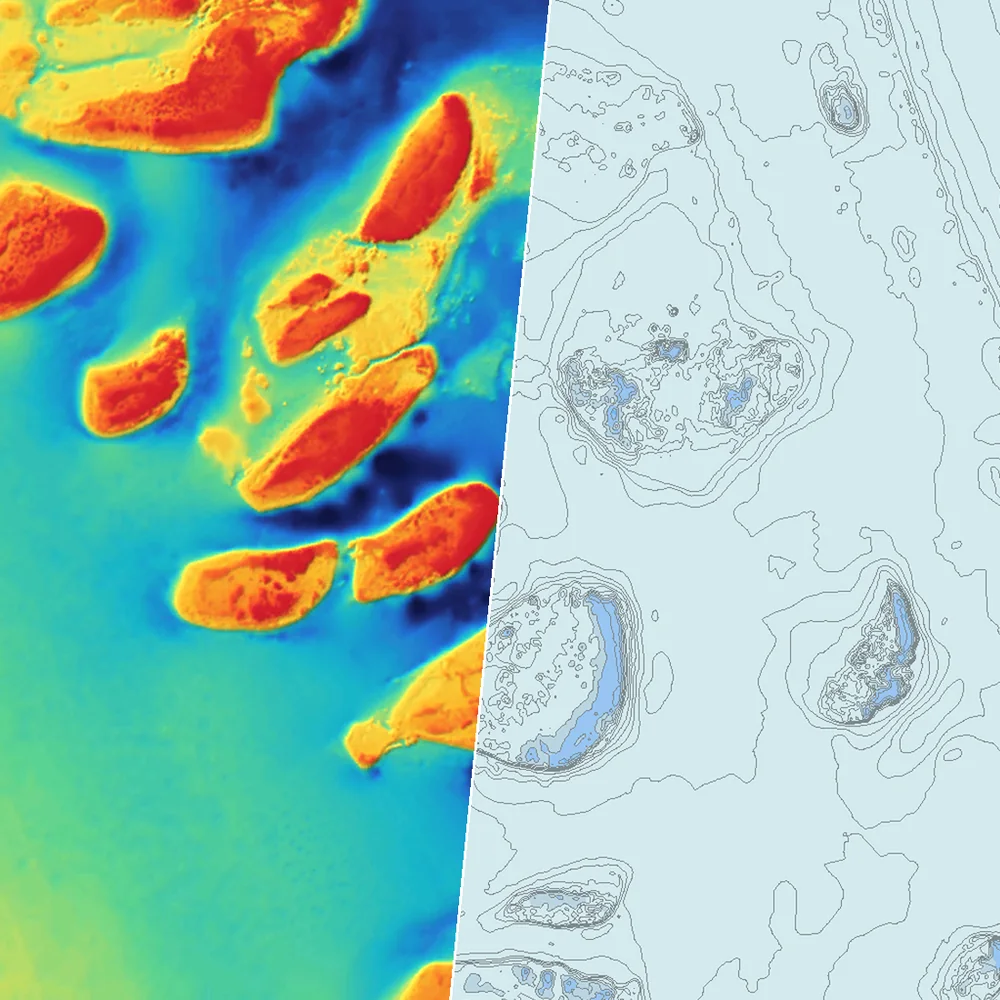
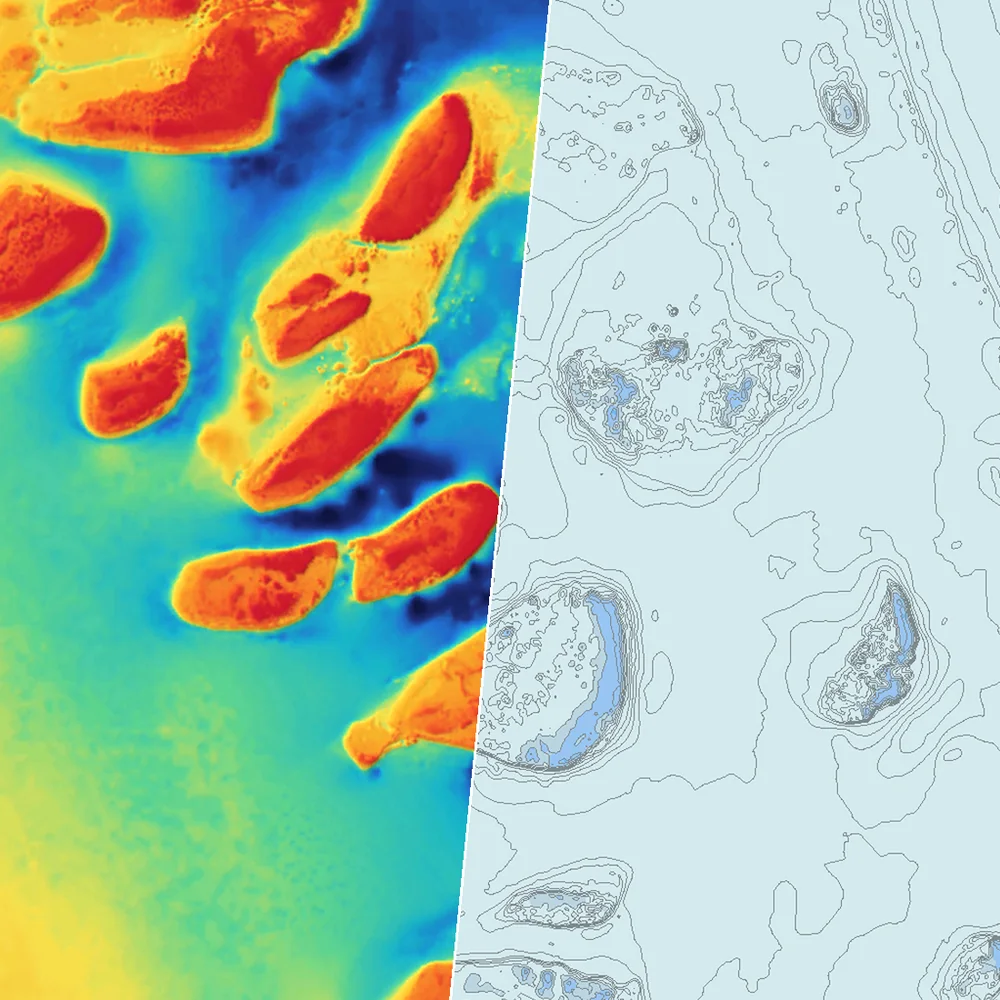
Say the apps work anywhere; BathyPicker's free data is Australian waters. AT5 pictures from 1.4

diff --git a/index.html b/index.html
@@ -3,9 +3,9 @@
 <head>
   <meta charset="utf-8">
   <meta name="viewport" content="width=device-width, initial-scale=1">
-  <title>SeaBathy: free 3D seabed maps for Australian waters</title>
+  <title>SeaBathy: free 3D seabed maps and charts for your plotter</title>
   <meta name="application-name" content="SeaBathy">
-  <meta name="description" content="Free, open-source bathymetry apps for Australian waters: open any GeoTIFF or MBTiles as a 3D seabed, with offline maps, tides and sea conditions, and charts for your chartplotter.">
+  <meta name="description" content="Free, open-source bathymetry apps you can use anywhere: open any GeoTIFF or MBTiles as a 3D seabed, with offline maps, tides and sea conditions, and make charts for Simrad, Lowrance and B&amp;G plotters. Plus free high-detail depth data for Australian waters.">
   <meta name="theme-color" content="#060b14">
   <link rel="icon" href="/favicon.ico" sizes="48x48">
   <link rel="icon" href="/img/icon-48.png" type="image/png" sizes="48x48">
@@ -14,7 +14,7 @@
   <link rel="manifest" href="/site.webmanifest">
   <meta property="og:type" content="website">
   <meta property="og:title" content="SeaBathy: see the seafloor in 3D">
-  <meta property="og:description" content="Free, open-source bathymetry apps for Australian waters. 3D seabed, offline maps, tides and plotter charts.">
+  <meta property="og:description" content="Free, open-source bathymetry apps you can use anywhere. 3D seabed, offline maps, tides and plotter charts.">
   <link rel="canonical" href="https://seabathy.com/">
   <meta property="og:url" content="https://seabathy.com/">
   <meta property="og:site_name" content="SeaBathy">
@@ -39,7 +39,7 @@
         "name": "SeaBathy",
         "url": "https://seabathy.com/",
         "logo": "https://seabathy.com/img/icon-512.png",
-        "description": "Free, open-source bathymetry apps for Australian waters.",
+        "description": "Free, open-source bathymetry apps: 3D seabed maps, offline charts and chartplotter charts.",
         "sameAs": ["https://github.com/SeaBathy"]
       },
       {
@@ -114,7 +114,7 @@
   <!-- Hero -->
   <section class="hero">
     <div class="hero-copy">
-      <p class="eyebrow">Free &amp; open source · Australian waters</p>
+      <p class="eyebrow">Free &amp; open source · Works anywhere</p>
       <h1>See the<br>seafloor.<br><span class="accent">In 3D.</span></h1>
       <p class="lede">Open any bathymetry you have, any GeoTIFF or MBTiles at any resolution, and fly over it in 3D. Plus offline maps, tides and charts for your plotter. No account, no subscription.</p>
       <div class="hero-actions">
@@ -181,7 +181,7 @@
         <div class="app-body">
           <p class="tag">Windows</p>
           <h3>SeaBathy Desktop</h3>
-          <p>Plan on the big screen. The same maps and 3D for your own GeoTIFF and MBTiles files, sharp to every pixel of the data.</p>
+          <p>Plan on the big screen. The same maps and 3D for your own GeoTIFF and MBTiles files, anywhere in the world, sharp to every pixel of the data.</p>
           <div class="app-actions">
             <a class="btn btn-primary btn-small" href="https://github.com/SeaBathy/seabathy-desktop/releases/latest">Download for Windows</a>
             <a class="btn btn-ghost btn-small" href="https://github.com/SeaBathy/seabathy-desktop">Source</a>
@@ -209,7 +209,7 @@
           <div class="window"><img src="img/at5-chart.webp" alt="Reefs on the central Great Barrier Reef as AT5 Chart Maker draws them: a coloured, shaded depth picture on the left, the depth chart with contour lines on the right" width="1440" height="900" loading="lazy"></div>
         </div>
         <div class="app-body">
-          <p class="tag">Windows · for Simrad, Lowrance &amp; B&amp;G</p>
+          <p class="tag">Windows · Simrad, Lowrance &amp; B&amp;G, worldwide</p>
           <h3>AT5 Chart Maker</h3>
           <p>Put any depth GeoTIFF on your sounder. Get a coloured, shaded depth picture and a contour chart, ready to copy to the plotter's SD card.</p>
           <div class="app-actions">
@@ -344,7 +344,7 @@
 <footer class="footer">
   <div class="footer-brand">
     <a class="brand" href="#top"><svg class="brand-mark" viewBox="0 0 32 32" aria-hidden="true"><use href="#mark"/></svg><span>SeaBathy</span></a>
-    <p>Free, open-source bathymetry apps for Australian waters.</p>
+    <p>Free, open-source bathymetry apps you can use anywhere, with free high-detail depth data for Australian waters.</p>
   </div>
   <div class="footer-links">
     <a href="https://github.com/SeaBathy/seabathy-android">SeaBathy for Android</a>

diff --git a/guide.html b/guide.html
@@ -4,7 +4,7 @@
   <meta charset="utf-8">
   <meta name="viewport" content="width=device-width, initial-scale=1">
   <title>How-to guide · SeaBathy</title>
-  <meta name="description" content="Get a free depth GeoTIFF of Australian waters with BathyPicker, then open it in SeaBathy on your phone or PC, or put it on a Simrad, Lowrance or B&G chartplotter with AT5 Chart Maker.">
+  <meta name="description" content="Open any depth GeoTIFF in SeaBathy on your phone or PC, anywhere in the world, or put it on a Simrad, Lowrance or B&G chartplotter with AT5 Chart Maker. In Australian waters, BathyPicker gets you a free one.">
   <link rel="canonical" href="https://seabathy.com/guide">
   <meta property="og:type" content="article">
   <meta property="og:title" content="SeaBathy how-to guide: from a box on the map to your boat">
@@ -30,7 +30,7 @@
 <main class="doc">
   <p class="eyebrow">How-to guide</p>
   <h1>From a box on the map to your boat.</h1>
-  <p class="lede">Four free apps that work together. Get a depth file for the water you fish, look at it on your phone or PC, and put it on your chartplotter.</p>
+  <p class="lede">Four free apps that work together. Get a depth file for the water you fish, look at it on your phone or PC, and put it on your chartplotter. SeaBathy and AT5 Chart Maker work anywhere in the world; BathyPicker's free data covers Australian waters.</p>
 
   <div class="paths">
     <div><b>Phone</b><span>BathyPicker → SeaBathy for Android</span></div>
@@ -55,7 +55,7 @@
     <li>Press <b>Build GeoTIFF</b>. A bay takes seconds, a whole coastline a few minutes.</li>
   </ol>
   <p>On a computer the file goes in <code>bathy_exports</code> in your user folder. On a phone it goes in <code>Download/BathyPicker</code>, and <b>Open</b> sends it straight to SeaBathy.</p>
-  <p>Already have a survey? Any GeoTIFF of depths, or an MBTiles chart, works in every step below. Outside Australia, SeaBathy can also download free worldwide depths (GMRT) for the area on screen: Settings → <b>Get seabed depths for this area</b>.</p>
+  <p><b>Outside Australia,</b> or with a survey of your own: any GeoTIFF of depths, or an MBTiles chart, works in every step below. Many countries publish free surveys (for example NOAA in the US, or your national hydrographic office), and SeaBathy can download free worldwide depths (GMRT) for the area on screen: Settings → <b>Get seabed depths for this area</b>.</p>
 
   <h2 id="phone">2. On your phone</h2>
   <p><a href="https://github.com/SeaBathy/seabathy-android/releases/latest">SeaBathy for Android</a>, Android 8 or newer. Download the APK on the phone and open it. Android asks once to allow installs from your browser.</p>

diff --git a/README.md b/README.md
@@ -1,7 +1,7 @@
 # SeaBathy website
 
-The website for [SeaBathy](https://github.com/SeaBathy): free, open-source bathymetry apps for
-Australian waters.
+The website for [SeaBathy](https://github.com/SeaBathy): free, open-source bathymetry apps you can use
+anywhere, with free high-detail depth data for Australian waters.
 
 It's a small static site with no build step, no libraries and no trackers. The 3D seabed at
 the top is drawn live with WebGL2 from real survey data, two scenes that take turns
